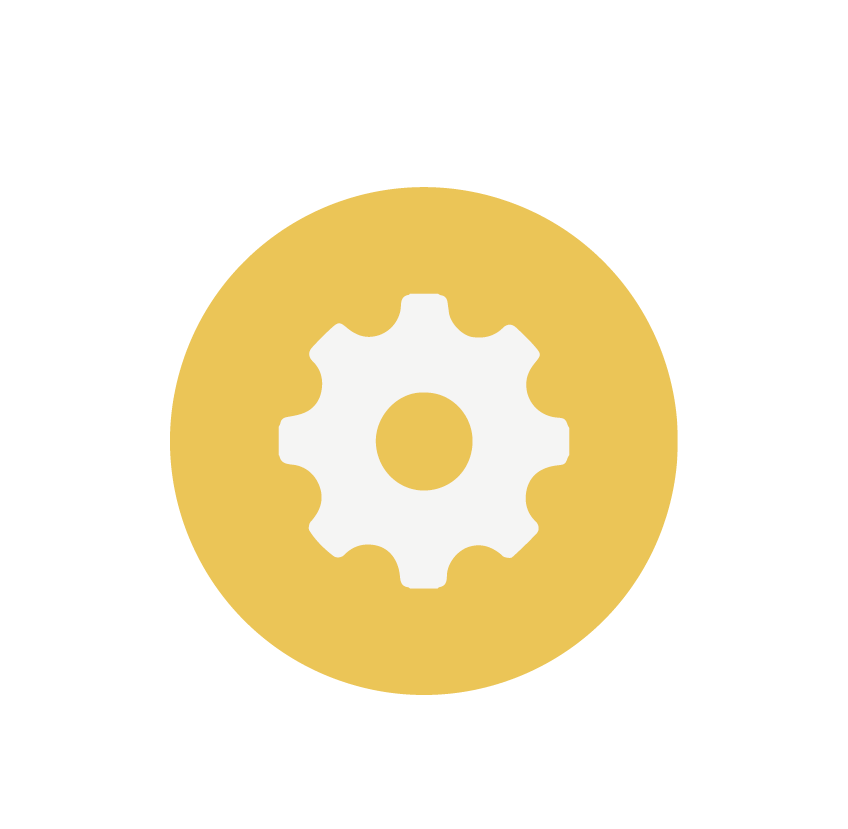
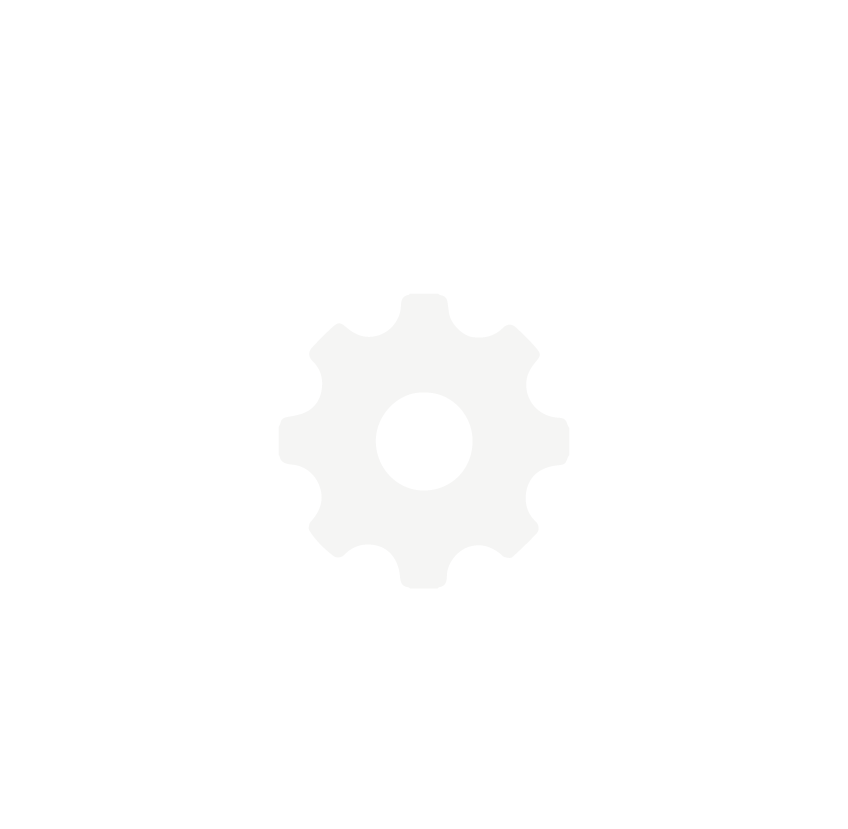
feat: navigation header

Changed region(s): [[0.184, 0.2111, 0.7972, 0.8444], [0.4292, 0.4524, 0.5825, 0.6031]]

diff --git a/src/pages/homeScreen.js b/src/pages/homeScreen.js
@@ -1,79 +1,94 @@
 import React, { component } from 'react';
-import { StyleSheet, Text, View, TouchableHighlight, Image, } from 'react-native';
+import { StyleSheet, Text, View, TouchableHighlight, Image } from 'react-native';
 import { StackNavigator } from 'react-navigation'
 
-import Header from './../component/header'
+class LogoTitle extends React.Component {
+  render() {
+    return (
+      <Image
+        source={require('../img/logo.png')}
+        style={{ width: 250, height: 50 }}
+      />
+    );
+  }
+}
 
 export default class HomeScreen extends React.Component {
+
+  static navigationOptions = {
+    headerTitle: <LogoTitle />,
+  };
+
   render() {
     return (
       <View style={styles.container}>
-        <Header />
-        <View style={styles.container2}>
-          <View style={styles.block}>
+        <Image
+          source={require('../img/fondmenu.png')}
+          style={styles.FondMenu}
+        />
+        <View style={styles.block}>
+          <View>
+            <TouchableHighlight onPress={() => this.props.navigation.navigate('Suivis')} >
+              <View>
+                <Image
+                  source={require('../img/hearth.png')}
+                  style={styles.image}
+                />
+                <Text style={styles.text}> Carnet de suivi</Text>
+              </View>
+            </TouchableHighlight>
+          </View>
+          <View>
+            <TouchableHighlight onPress={() => this.props.navigation.navigate('RendezVous')} >
+              <View>
+                <Image
+                  source={require('../img/calendar.png')}
+                  style={styles.image}
+                />
+                <Text style={styles.text}> Rendez-vous</Text>
+              </View>
+            </TouchableHighlight>
+          </View>
+        </View>
+        <View style={styles.block}>
+          <TouchableHighlight onPress={() => this.props.navigation.navigate('Ordonance')} >
             <View>
-              <TouchableHighlight onPress={() => this.props.navigation.navigate('Suivis')} >
-                <View>
-                  <Image
-                    source={require('../img/hearth.png')}
-                    style={styles.image}
-                  />
-                  <Text style={styles.text}> Carnet de suivis</Text>
-                </View>
-              </TouchableHighlight>
+              <Image
+                source={require('../img/ordonance.png')}
+                style={styles.image}
+              />
+              <Text style={styles.text}> Ordonances</Text>
             </View>
+          </TouchableHighlight>
+          <TouchableHighlight onPress={() => this.props.navigation.navigate('Rappels')} >
             <View>
-              <TouchableHighlight onPress={() => this.props.navigation.navigate('RendezVous')} >
-                <View>
-                  <Image
-                    source={require('../img/calendar.png')}
-                    style={styles.image}
-                  />
-                  <Text style={styles.text}> Rendez-vous</Text>
-                </View>
-              </TouchableHighlight>
+              <Image
+                source={require('../img/rappel.png')}
+                style={styles.image}
+              />
+              <Text style={styles.text}> Rappels</Text>
             </View>
-          </View>
-          <View style={styles.block}>
-            <TouchableHighlight onPress={() => this.props.navigation.navigate('Ordonance')} >
-              <View>
-                <Image
-                  source={require('../img/ordonance.png')}
-                  style={styles.image}
-                />
-                <Text style={styles.text}> Ordonances</Text>
-              </View>
-            </TouchableHighlight>
-            <TouchableHighlight onPress={() => this.props.navigation.navigate('Rappels')} >
-              <View>
-                <Image
-                  source={require('../img/rappel.png')}
-                  style={styles.image}
-                />
-                <Text style={styles.text}> Rappels</Text>
-              </View>
-            </TouchableHighlight>
-          </View>
-          <View style={styles.block}>
-            <TouchableHighlight onPress={() => this.props.navigation.navigate('Contact')} >
-              <View>
-                <Image
-                  source={require('../img/phone.png')}
-                  style={styles.image}
-                />
-                <Text style={styles.text}> Contact</Text>
-              </View>
-            </TouchableHighlight>
-            <TouchableHighlight onPress={() => this.props.navigation.navigate('Cog')} >
-              <View>
-                <Image
-                  source={require('../img/cog.png')}
-                  style={styles.image}
-                />
-                <Text style={styles.text}> Paramétres</Text>
-              </View>
-            </TouchableHighlight>
-          </View>
+          </TouchableHighlight>
+        </View>
+        <View style={styles.block}>
+          <TouchableHighlight onPress={() => this.props.navigation.navigate('Contact')} >
+            <View>
+              <Image
+                source={require('../img/phone.png')}
+                style={styles.image}
+              />
+              <Text style={styles.text}> Contacts</Text>
+            </View>
+          </TouchableHighlight>
+          <TouchableHighlight onPress={() => this.props.navigation.navigate('Cog')} >
+            <View>
+              <Image
+                source={require('../img/cog.png')}
+                style={styles.image}
+              />
+              <Text style={styles.text}> Paramètres</Text>
+            </View>
+          </TouchableHighlight>
         </View>
       </View>
     );
@@ -83,13 +98,9 @@ export default class HomeScreen extends React.Component {
 const styles = StyleSheet.create({
   container: {
     flex: 1,
-    backgroundColor: '#eff7f9',
     alignItems: 'center',
     justifyContent: 'center',
-  },
-  container2: {
-    marginTop: 30,
-    zIndex: 1,
+    marginTop: -80,
   },
 
   block: {
@@ -97,17 +108,26 @@ const styles = StyleSheet.create({
     marginLeft: -160,
     marginTop: 15,
     maxWidth: 200,
+    zIndex: 5,
   },
 
   image: {
     width: 180,
     height: 180,
+    zIndex: 5,
   },
 
   text: {
     textAlign: 'center',
     marginTop: -30,
     fontSize: 20,
+  },
+
+  FondMenu: {
+    zIndex: 1,
+    position: 'absolute',
+    width: 400,
+    height: 800,
   }
 
 });

diff --git a/src/pages/suivis.js b/src/pages/suivis.js
@@ -1,8 +1,19 @@
 import React, {Component} from 'react'
-import {View, Text, Button, AppRegistry} from 'react-native'
-import { StackNavigator } from 'react-navigation'
+import {View, Text, Button, Image, AppRegistry} from 'react-native'
+import { StackNavigator, } from 'react-navigation'
 
 export default class SuivisScreen extends React.Component {
+
+    static navigationOptions = {
+        title: 'Carnet de suivi',
+        headerStyle: {
+            backgroundColor: '#662680',
+        },
+        headerTintColor: '#f3f4f4',
+        headerTitleStyle: {
+            fontSize: 30,
+        }
+      };
 
     render() {
         return(

diff --git a/src/pages/ordonance.js b/src/pages/ordonance.js
@@ -4,6 +4,17 @@ import { StackNavigator } from 'react-navigation'
 
 export default class Ordonances extends React.Component {
 
+    static navigationOptions = {
+        title: 'Ordonnances',
+        headerStyle: {
+            backgroundColor: '#662680',
+        },
+        headerTintColor: '#f3f4f4',
+        headerTitleStyle: {
+            fontSize: 30,
+        }
+      };
+      
     render() {
         return(
             <View>

diff --git a/src/pages/rendezvous.js b/src/pages/rendezvous.js
@@ -4,6 +4,19 @@ import { StackNavigator } from 'react-navigation'
 
 export default class RendezVous extends React.Component {
 
+
+    static navigationOptions = {
+        title: 'Rendez-vous',
+        headerStyle: {
+            backgroundColor: '#662680',
+        },
+        headerTintColor: '#f3f4f4',
+        headerTitleStyle: {
+            fontSize: 30,
+        }
+      };
+
+
     render() {
         return(
             <View>

diff --git a/src/pages/cog.js b/src/pages/cog.js
@@ -4,6 +4,17 @@ import { StackNavigator } from 'react-navigation'
 
 export default class Cog extends React.Component {
 
+    static navigationOptions = {
+        title: 'Paramètres',
+        headerStyle: {
+            backgroundColor: '#662680',
+        },
+        headerTintColor: '#f3f4f4',
+        headerTitleStyle: {
+            fontSize: 30,
+        }
+      };
+      
     render() {
         return(
             <View>

diff --git a/src/pages/contact.js b/src/pages/contact.js
@@ -4,6 +4,17 @@ import { StackNavigator } from 'react-navigation'
 
 export default class Contact extends React.Component {
 
+    static navigationOptions = {
+        title: 'Contacts',
+        headerStyle: {
+            backgroundColor: '#662680',
+        },
+        headerTintColor: '#f3f4f4',
+        headerTitleStyle: {
+            fontSize: 30,
+        }
+      };
+
     render() {
         return(
             <View>

diff --git a/src/pages/rappels.js b/src/pages/rappels.js
@@ -4,6 +4,17 @@ import { StackNavigator } from 'react-navigation'
 
 export default class Rappels extends React.Component {
 
+    static navigationOptions = {
+        title: 'Rappels',
+        headerStyle: {
+            backgroundColor: '#662680',
+        },
+        headerTintColor: '#f3f4f4',
+        headerTitleStyle: {
+            fontSize: 30,
+        }
+      };
+
     render() {
         return(
             <View>
